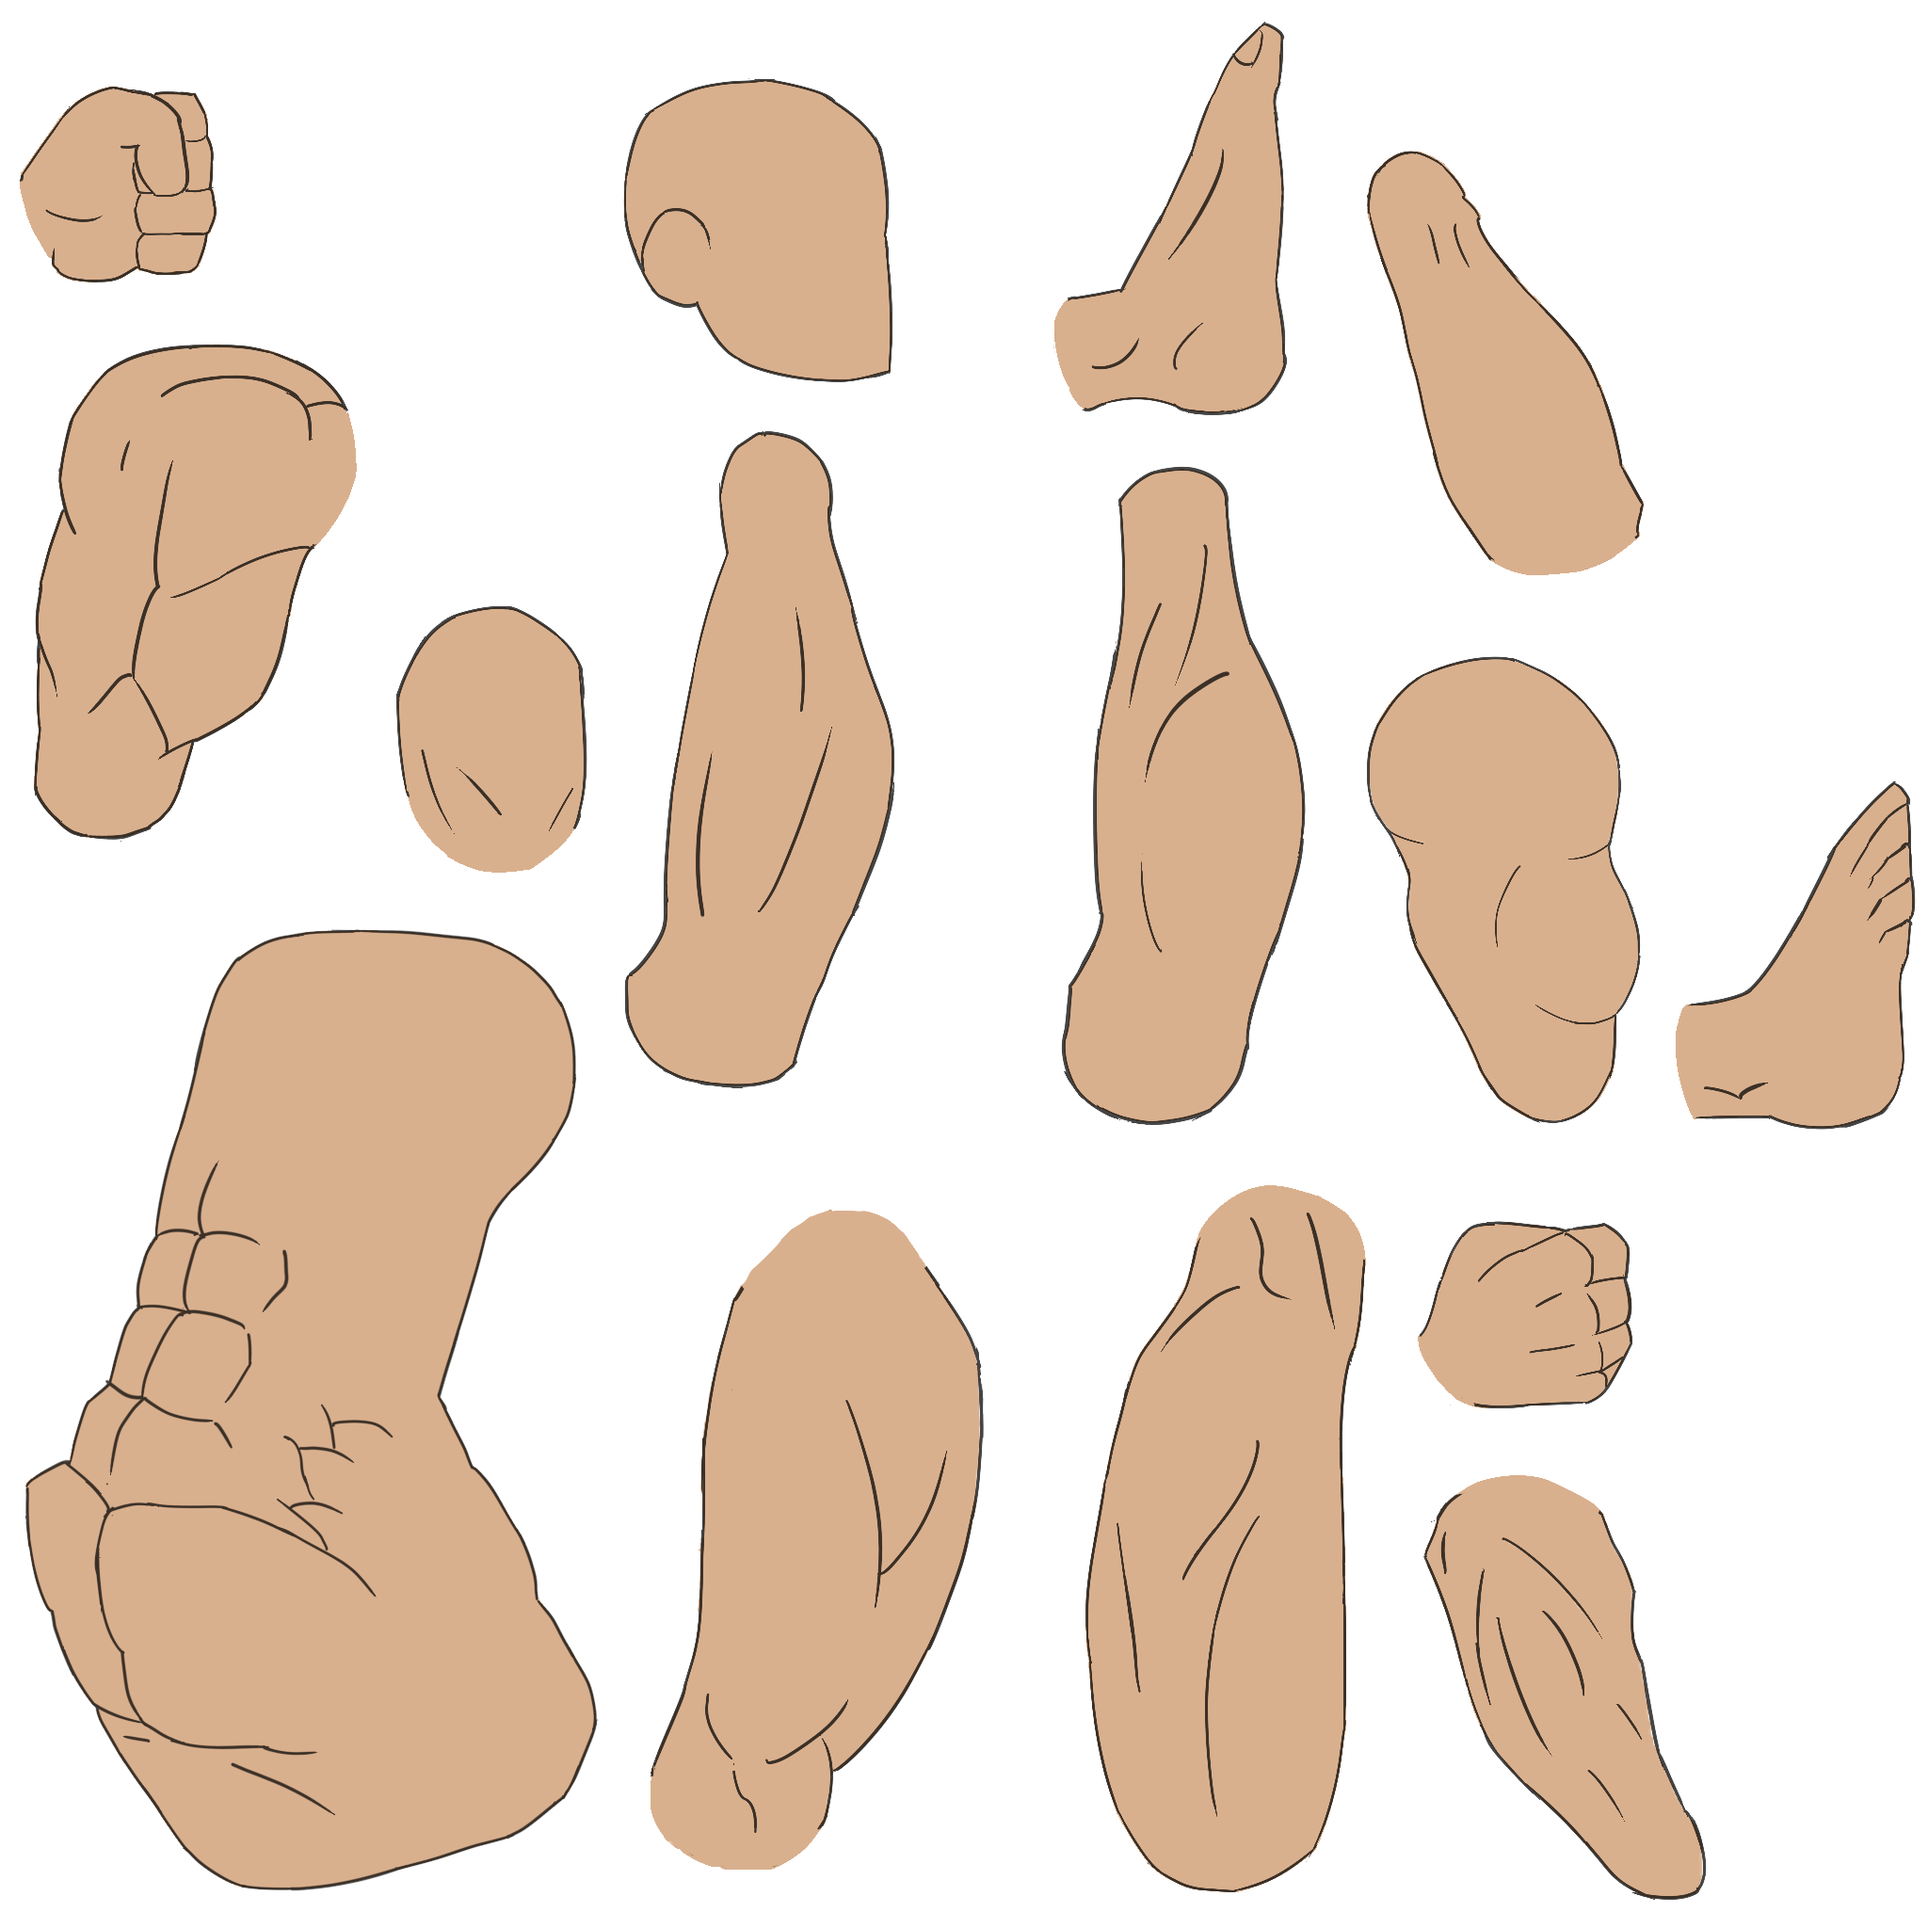
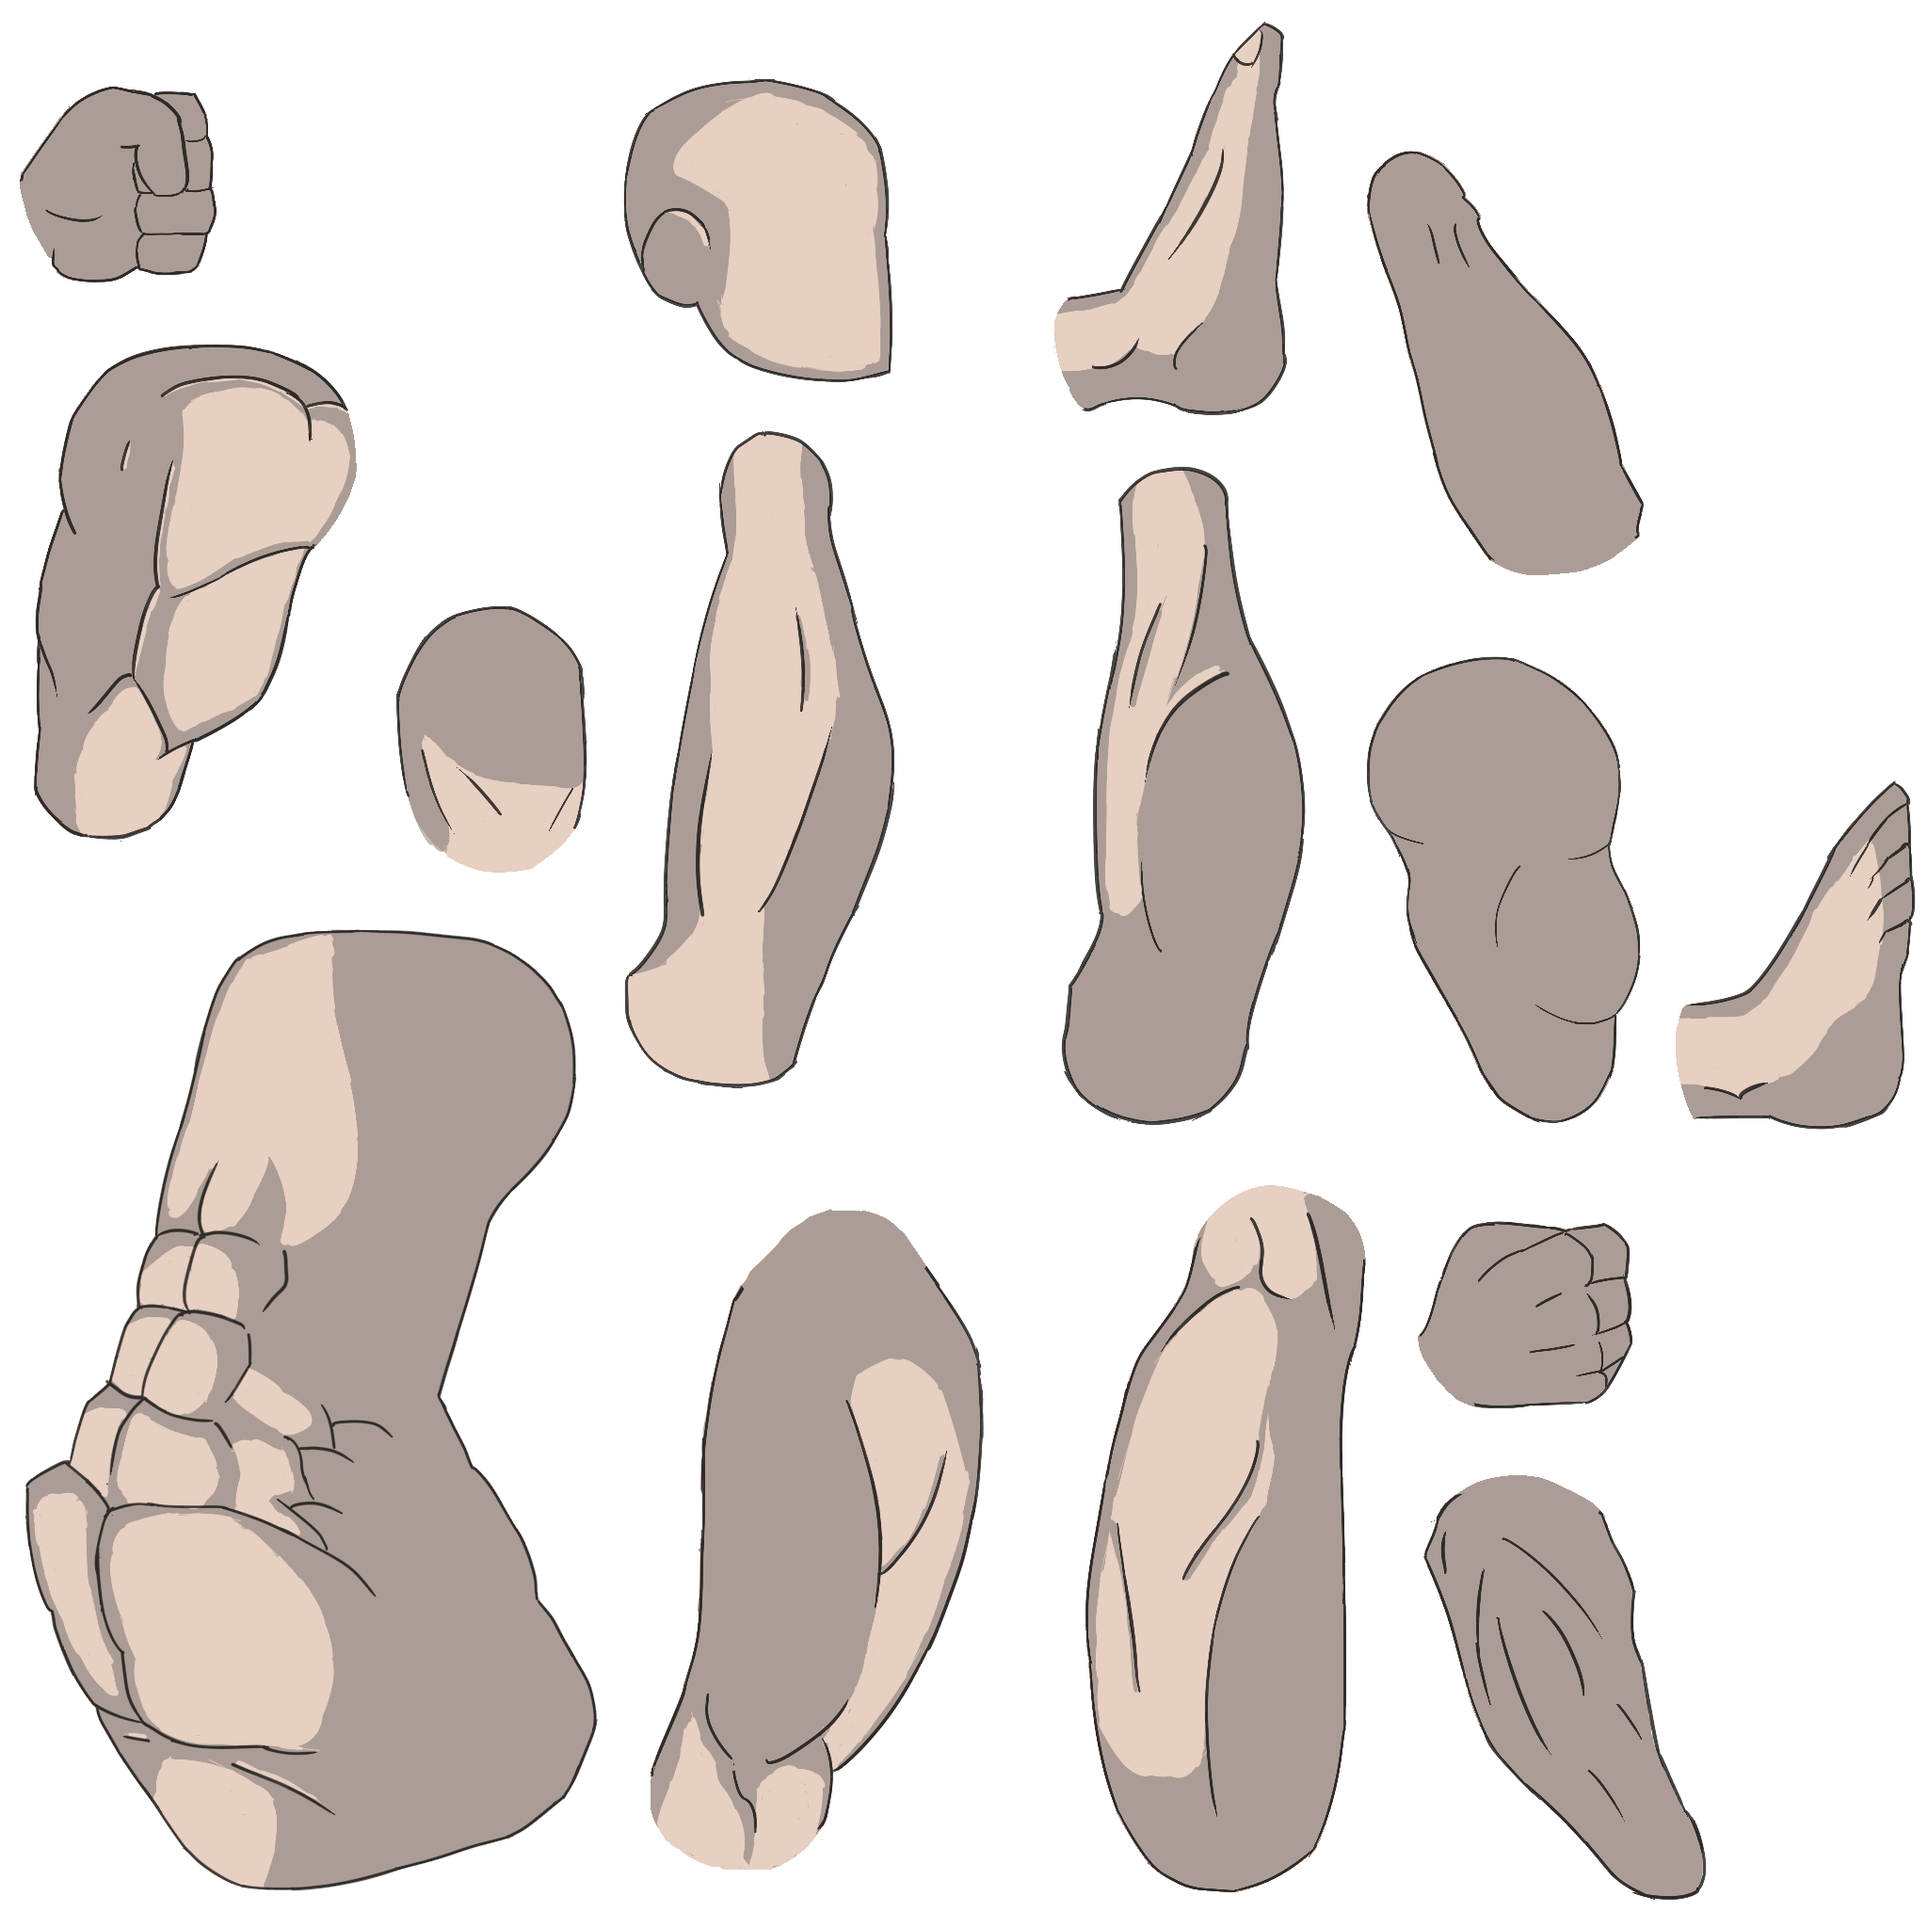
testing shading

diff --git a/index.html b/index.html
@@ -102,11 +102,11 @@
     var mixer = [];
     var files = [
         'gladiator3.1.json',
-        'gladiator3.1-shield.json',
-        'gladiator3.1-sword.json',
-        'gladiator3.1-armor.json',
-        'gladiator3.1-pants.json',
-        'gladiator3.1-helmet.json',
+        //'gladiator3.1-shield.json',
+        //'gladiator3.1-sword.json',
+        //'gladiator3.1-armor.json',
+        //'gladiator3.1-pants.json',
+        //'gladiator3.1-helmet.json',
     ];
     var loaded = 0;
     for (var i = 0, il = files.length; i < il; i++) {
